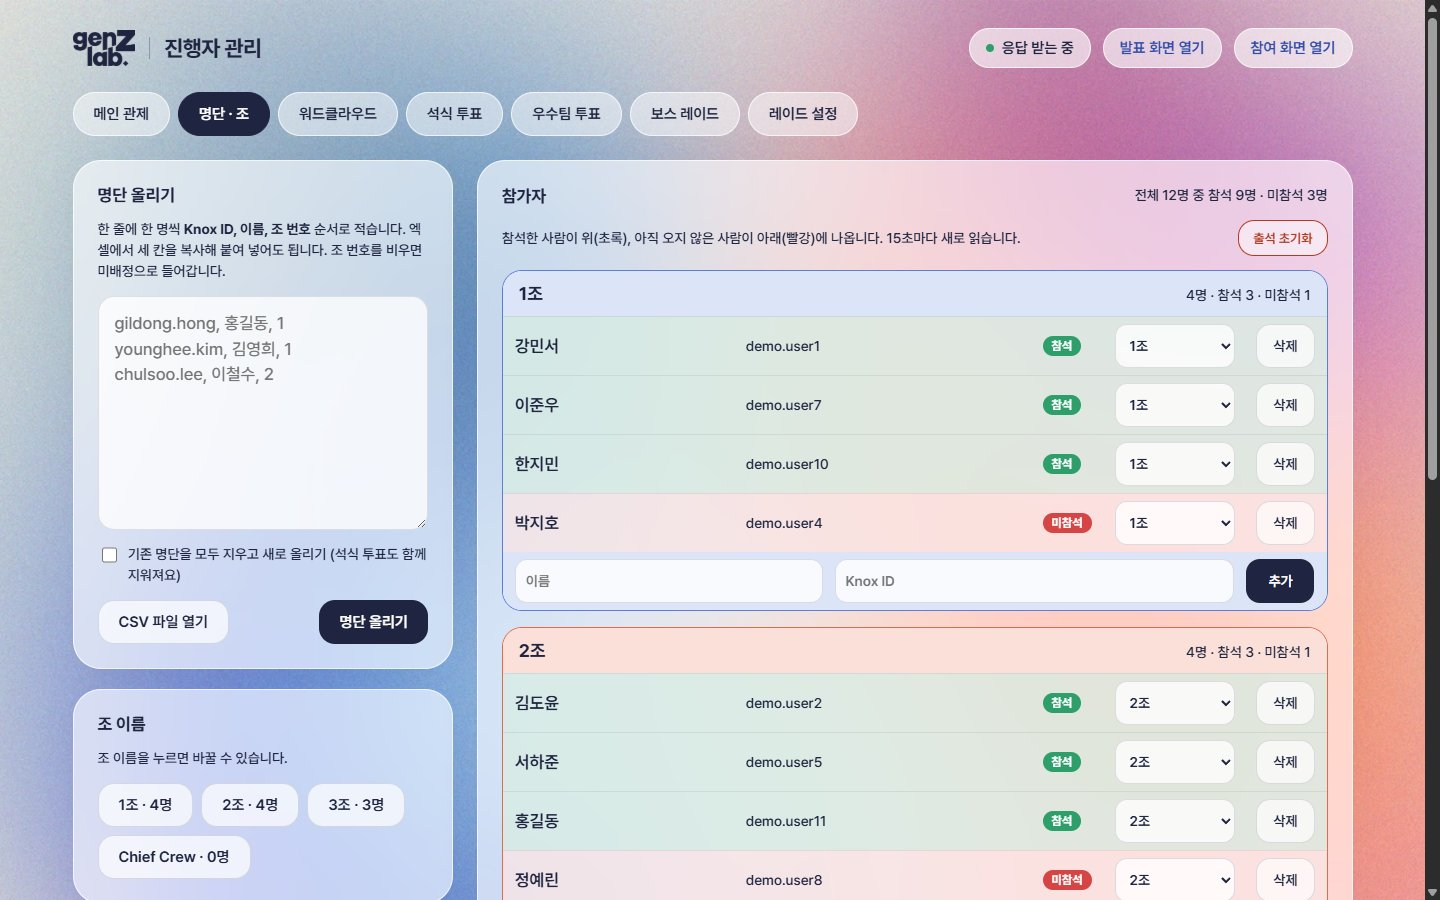
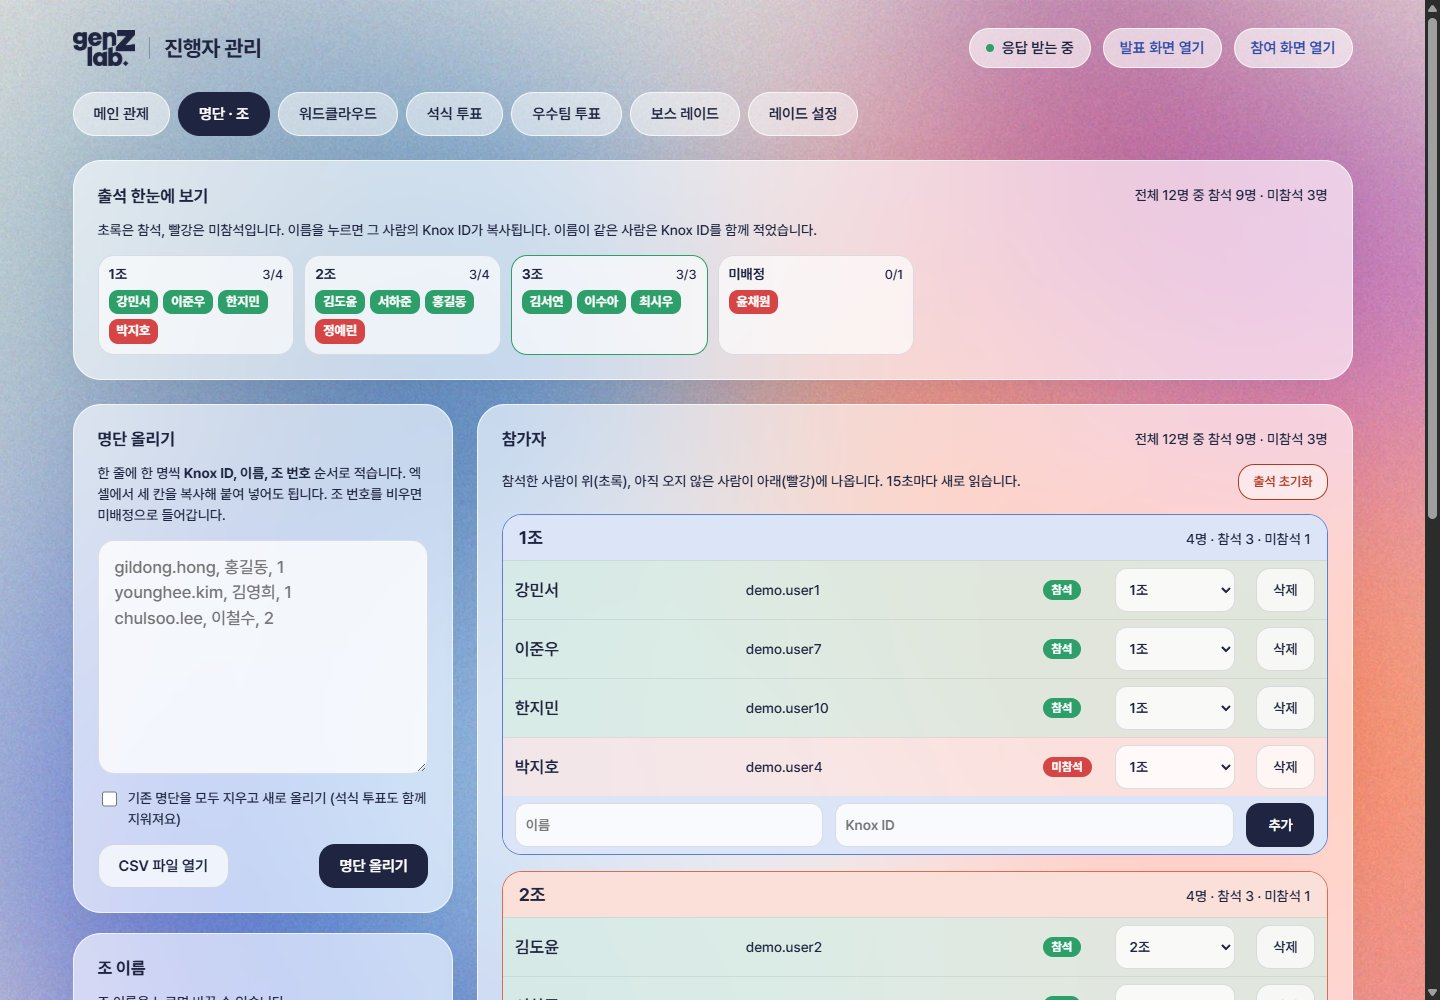
README: attendance board, phone admin layout and refreshed screenshots

diff --git a/README.md b/README.md
@@ -66,7 +66,6 @@
 - 조 박스 안에서 참석한 사람이 위, 미참석이 아래로 모입니다.
 - "전체 N명 중 참석 N명 · 미참석 N명"이 메인 관제와 명단 · 조 탭에 나옵니다. Chief Crew는 세지 않습니다.
 - **출석 한눈에 보기**: 명단 · 조 탭 맨 위에 조마다 작은 칸이 있고, 이름이 초록(참석) · 빨강(미참석)으로 나옵니다. 이름을 누르면 그 사람의 Knox ID가 복사됩니다. 이름이 같은 사람은 Knox ID를 함께 적습니다.
-- **휴대폰**: 관리 화면도 휴대폰에서 볼 수 있습니다. 탭은 옆으로 밀고, 명단은 한 사람이 두 줄로 나옵니다.
 - **출석 초기화**: 모두 미참석으로 되돌리고 열려 있던 휴대폰을 로그아웃시킵니다. 리허설 뒤 본 행사 전에 누릅니다.
 - NFC 태그를 쓰려면 태그에 참여 주소를 써 두면 됩니다. 코드 쪽 설정은 없습니다.
 
@@ -89,6 +88,14 @@
 출석부로도 씁니다. Knox ID로 들어온 사람은 **참석**(초록), 아직 오지 않은 사람은 **미참석**(빨강)으로 칠해지고, 조 박스 안에서 참석한 사람이 위에 모입니다. 15초마다 새로 읽습니다. 인원은 Chief Crew(조 이름에 "Chief" · "치프"가 들어간 조)를 빼고 세며, 메인 관제와 이 탭 위쪽에 "전체 N명 중 참석 N명 · 미참석 N명"으로 나옵니다. **출석 초기화**를 누르면 모든 사람이 미참석으로 돌아가고, 열려 있던 휴대폰은 로그아웃되어 첫 화면으로 갑니다(명단 · 조 · 투표는 그대로).
 
 ![명단 · 조](docs/screenshots/admin-roster.jpg)
+
+맨 위 **출석 한눈에 보기**는 조마다 작은 칸 하나에 이름을 초록 · 빨강으로 보여 줍니다(Chief Crew 제외). 이름을 누르면 Knox ID가 복사되고, 복사가 막힌 브라우저에서는 Knox ID를 골라 둔 창이 뜹니다. 이름이 같은 사람은 Knox ID가 함께 적힙니다.
+
+### 휴대폰에서 보는 관리 화면
+
+관리 화면은 휴대폰에서도 쓸 수 있습니다. 탭은 한 줄에서 옆으로 밀고, 명단은 한 사람이 두 줄(이름 · Knox ID · 출석 / 조 고르기 · 삭제)로 나옵니다. 지우기 · 초기화 같은 확인창은 브라우저 기본 창이 아니라 화면 안에 뜨므로, 앱 안 브라우저처럼 기본 창이 막힌 곳에서도 동작합니다.
+
+<img src="docs/screenshots/admin-mobile.jpg" width="300" alt="휴대폰에서 본 관리 화면">
 
 ### 석식 투표
 
